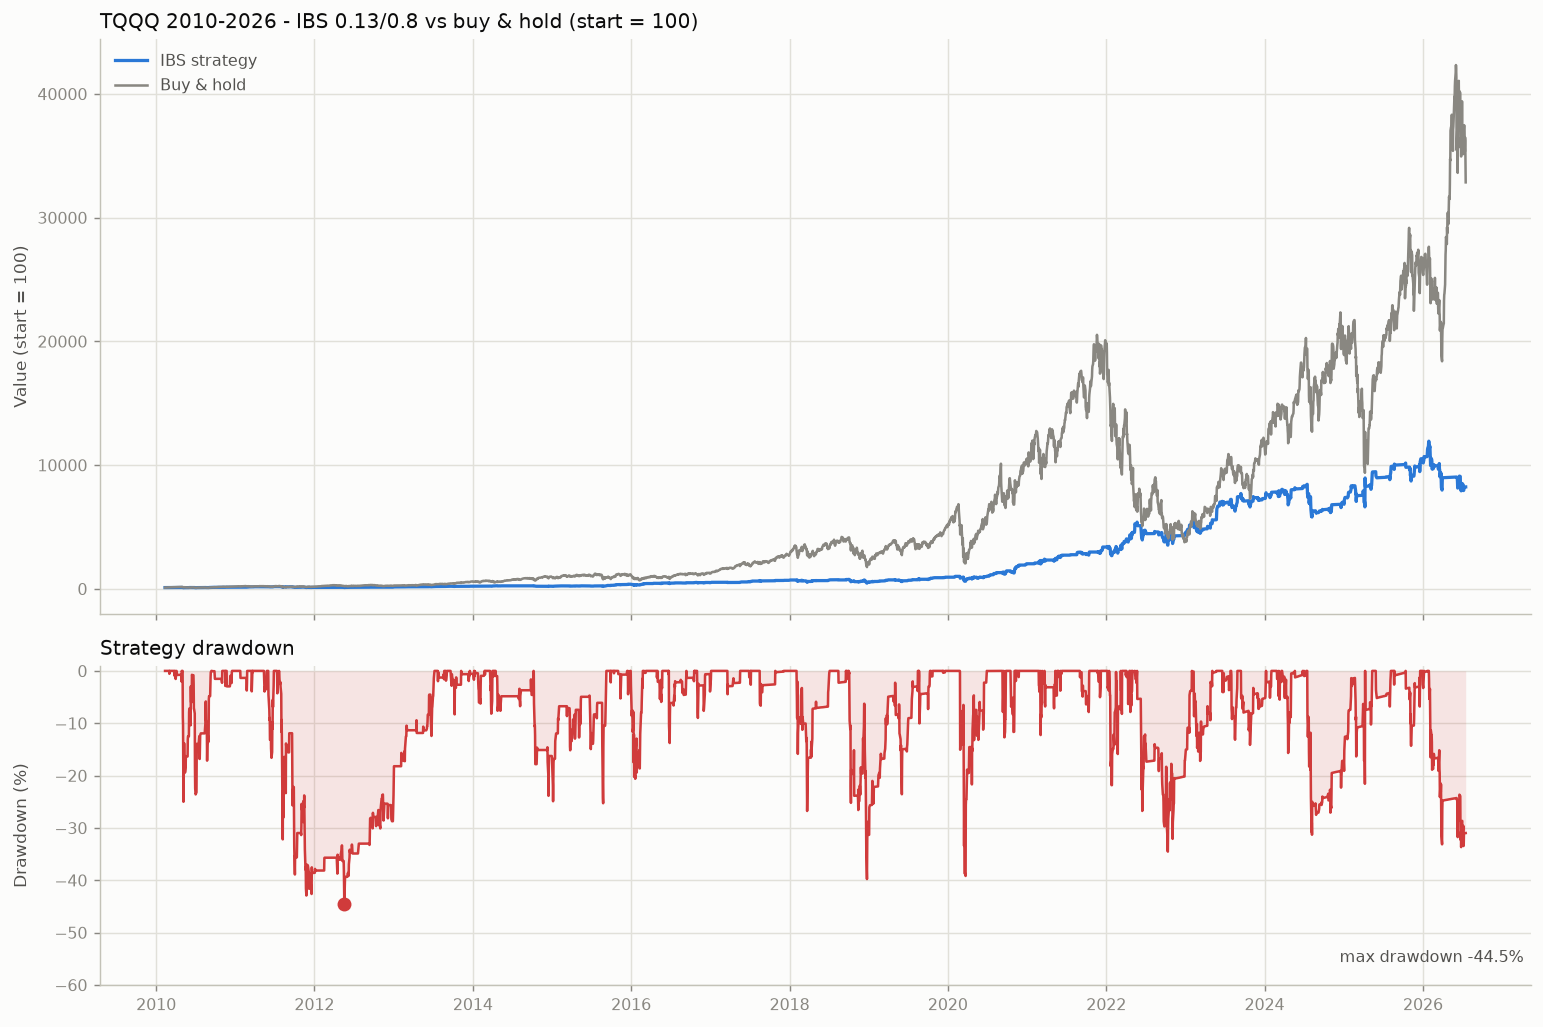
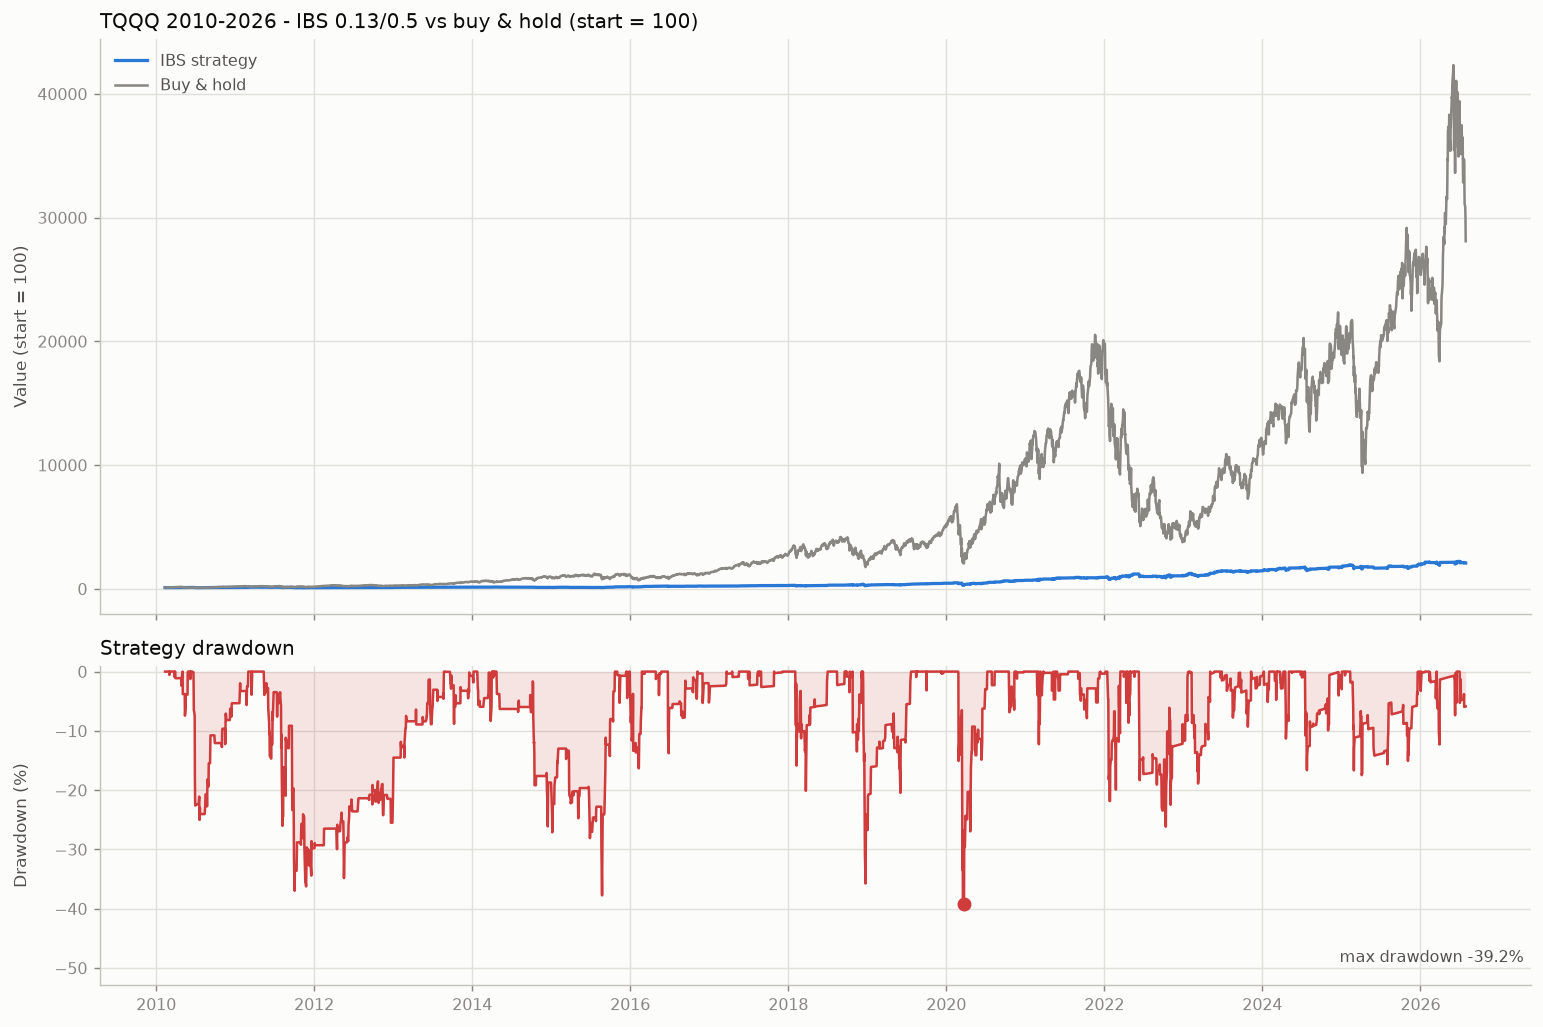
Change default exit

diff --git a/src/ibs_strategy/backtest.py b/src/ibs_strategy/backtest.py
@@ -43,15 +43,18 @@ __all__ = [
 
 REQUIRED_COLUMNS = ("Open", "Close", "IBS")
 
-# Crash-aware thresholds: the flat region that holds up on BOTH TQQQ (1999+)
-# and SPXL (1993+) once the dot-com and GFC crashes are in the sample, scored
-# by the worse of the two Sharpe ratios rather than by CAGR. Deliberately round
-# -- the surrounding plateau is flat enough that a third digit would be noise.
-# The crash-free 2010+ window instead favours a patient 0.965 exit (see the
-# README): that pick draws down 99% through 2000-2002, which is why it is no
-# longer the default.
+# Defaults are structural, not fitted -- an optimized threshold pair does not
+# replicate out-of-sample (the surface is noise; see the README).
+# Entry 0.13 buys the bottom ~12% of IBS days, where a replicating forward-return
+# edge lives; anywhere in 0.10-0.20 is equivalent.
+# Exit 0.5 is a prompt, zero-degrees-of-freedom exit at the neutral midpoint: the
+# IBS edge is front-loaded (largely spent within a day, gone within three), so a
+# prompt exit harvests it and steps aside, keeping the strategy in cash ~80% of
+# the time and truncating crashes. A stop loss only makes a mean-reversion system
+# worse. The crash-free 2010+ window alone would favour a patient 0.965 exit that
+# then draws down 99% through 2000-2002.
 DEFAULT_ENTRY_THRESHOLD = 0.13
-DEFAULT_EXIT_THRESHOLD = 0.80
+DEFAULT_EXIT_THRESHOLD = 0.5
 
 
 @dataclass(frozen=True)

diff --git a/tests/test_cli.py b/tests/test_cli.py
@@ -40,14 +40,14 @@ def test_parser_wires_subcommands():
     assert args.lookback == 365
 
 
-def test_default_thresholds_are_crash_aware():
+def test_default_thresholds():
     from ibs_strategy.backtest import DEFAULT_ENTRY_THRESHOLD, DEFAULT_EXIT_THRESHOLD
 
-    # chosen on crash-inclusive history by minimax Sharpe across TQQQ and SPXL,
-    # and kept deliberately round -- the plateau is flat, so a third digit
-    # would encode noise rather than information
+    # structural, not fitted: entry 0.13 selects the bottom-decile forward-return
+    # edge; exit 0.5 is the zero-DOF prompt midpoint exit (the edge is front-loaded
+    # and an optimized exit doesn't replicate). Both deliberately round.
     assert DEFAULT_ENTRY_THRESHOLD == 0.13
-    assert DEFAULT_EXIT_THRESHOLD == 0.80
+    assert DEFAULT_EXIT_THRESHOLD == 0.5
 
     args = build_parser().parse_args(["backtest", "TQQQ"])
     assert args.entry == DEFAULT_ENTRY_THRESHOLD
